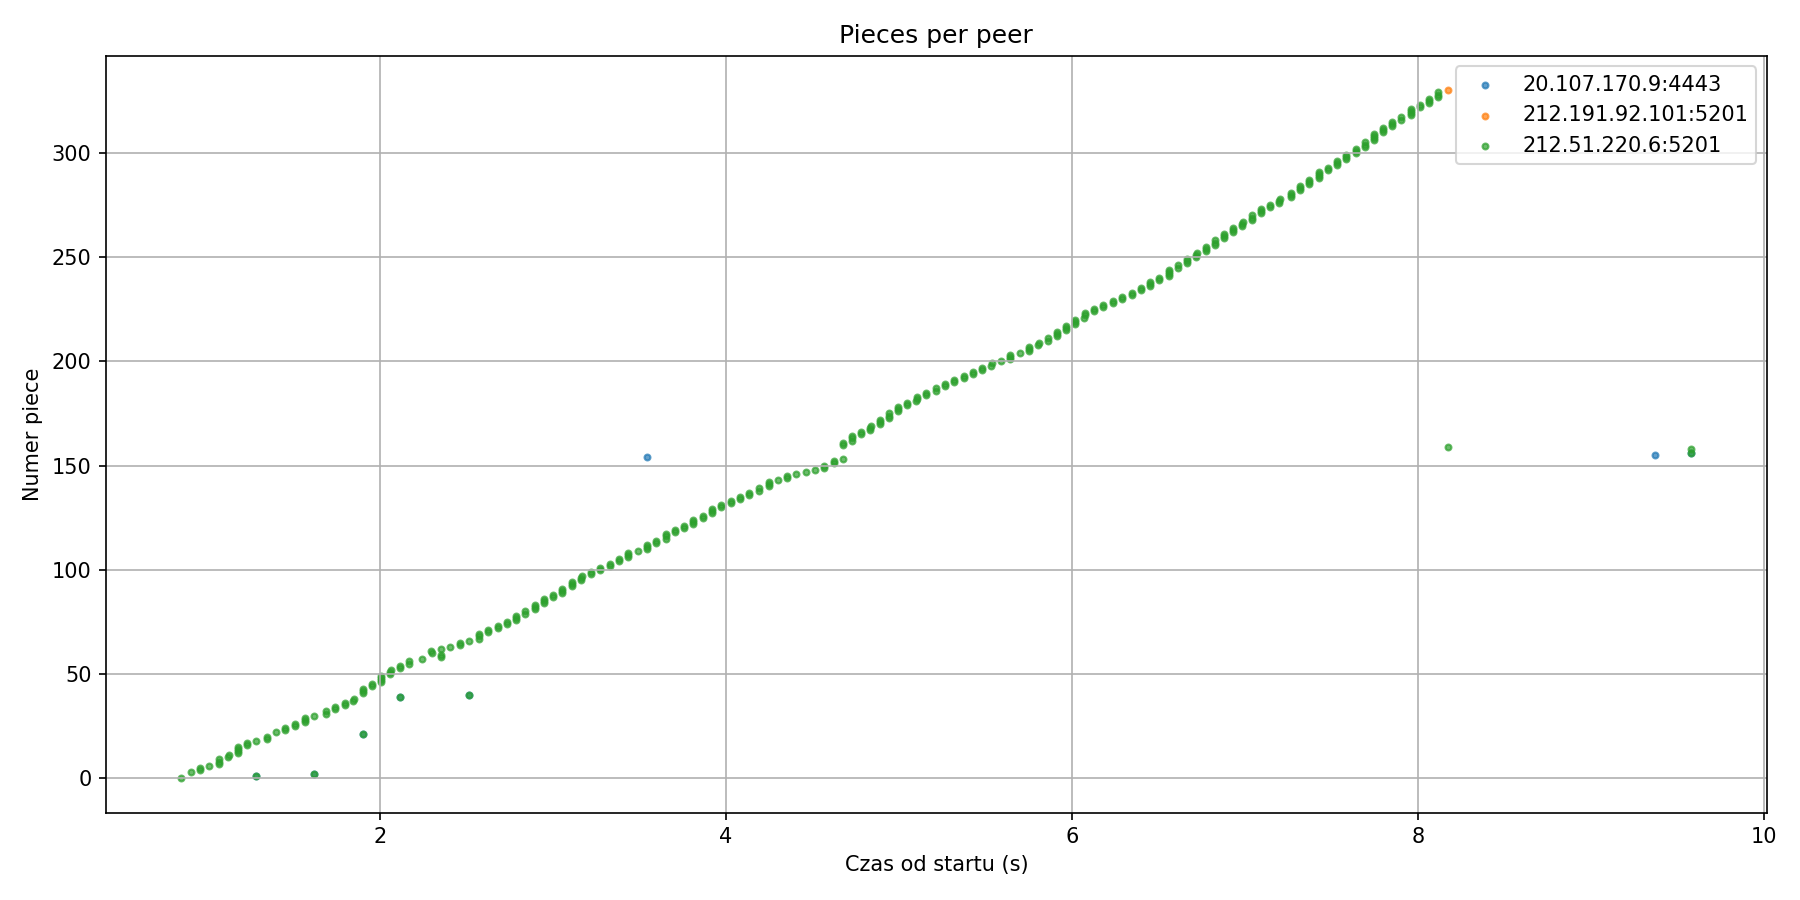
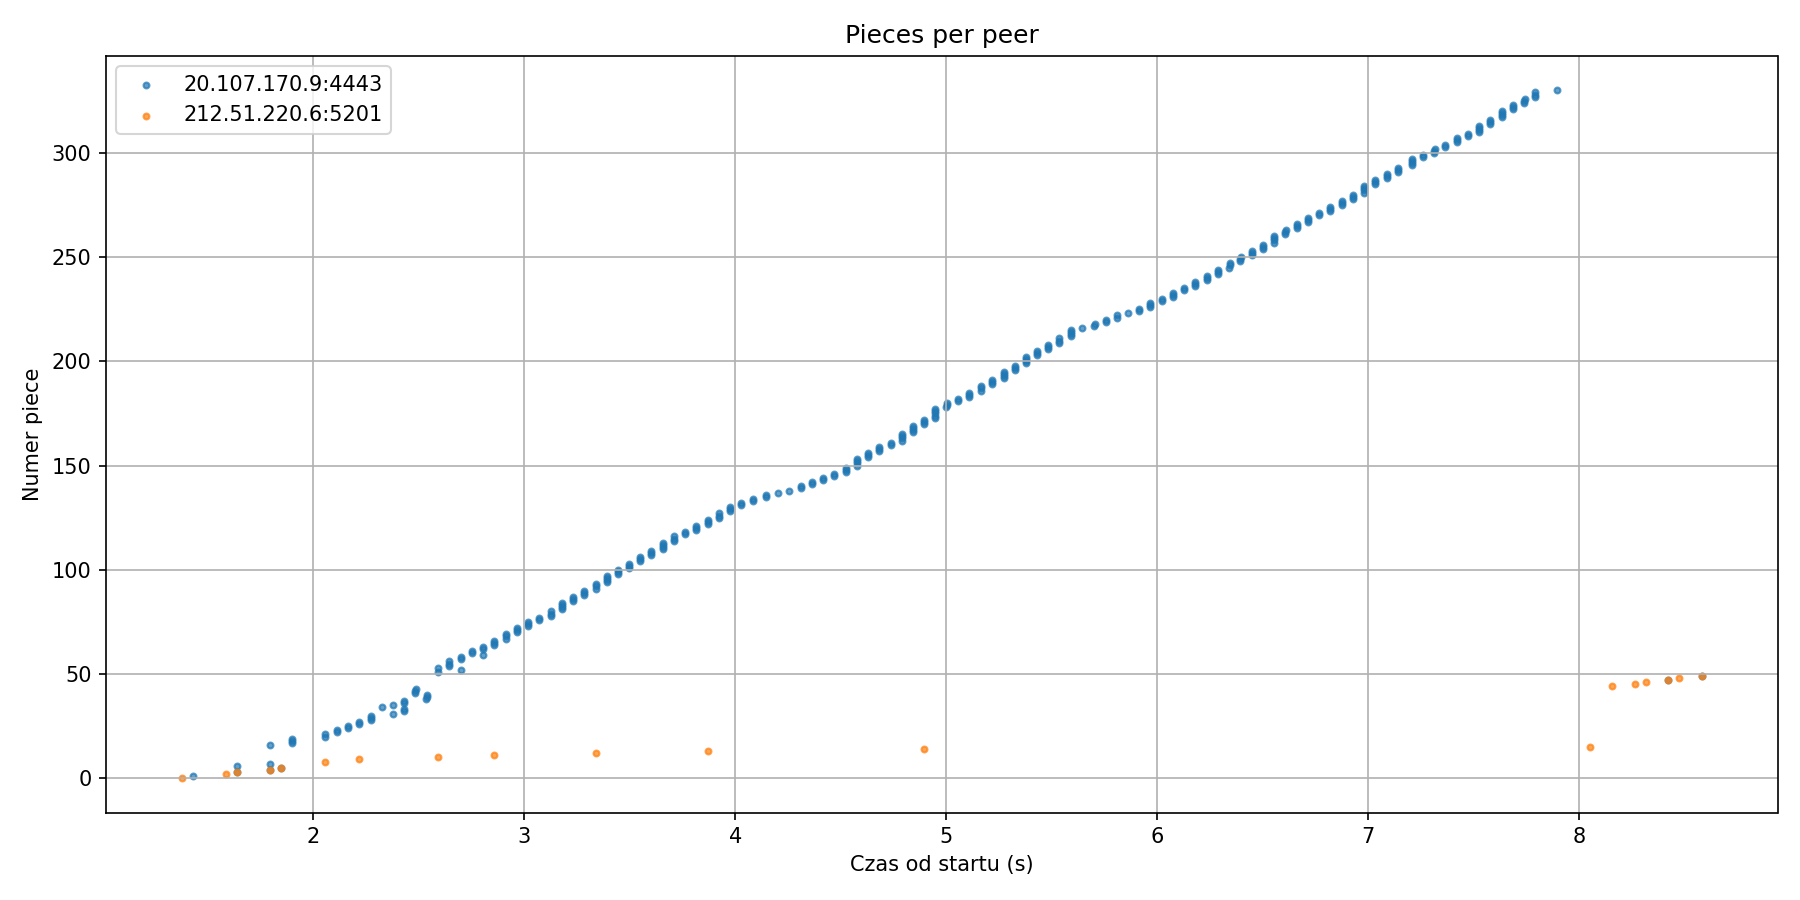
Introduce new torrent

diff --git a/_tul_project/quic/torrent_analysis/libtorrent_client_new.py b/_tul_project/quic/torrent_analysis/libtorrent_client_new.py
@@ -86,6 +86,16 @@ def write_metric_summary(path, label, section, values, duration=None):
             f.write("Total: %.6f s\n" % duration)
 
 
+def clear_directory(path):
+    for entry in os.listdir(path):
+        full = os.path.join(path, entry)
+        if os.path.isdir(full):
+            import shutil
+            shutil.rmtree(full)
+        else:
+            os.remove(full)
+
+
 def monitor(handle, session, seed_addrs=None):
     if seed_addrs is None:
         seed_addrs = []
@@ -271,6 +281,7 @@ if __name__ == "__main__":
     destination = os.path.join(os.path.dirname(__file__), "downloads")
 
     os.makedirs(destination, exist_ok=True)
+    clear_directory(destination)
 
     session = create_client()
 
